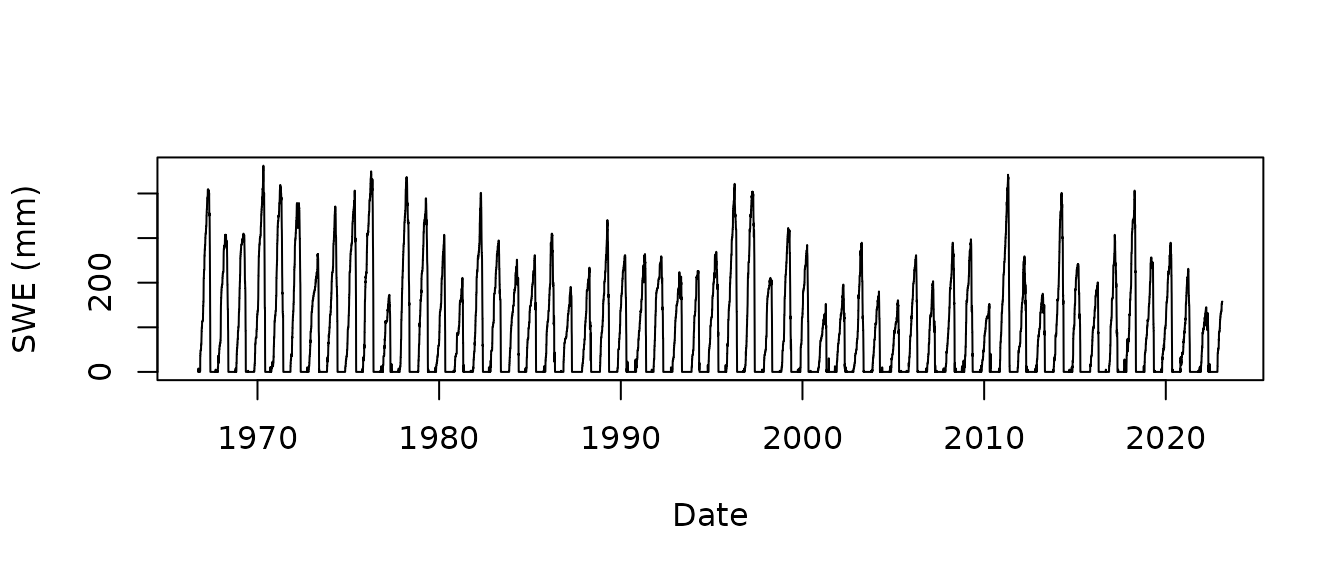
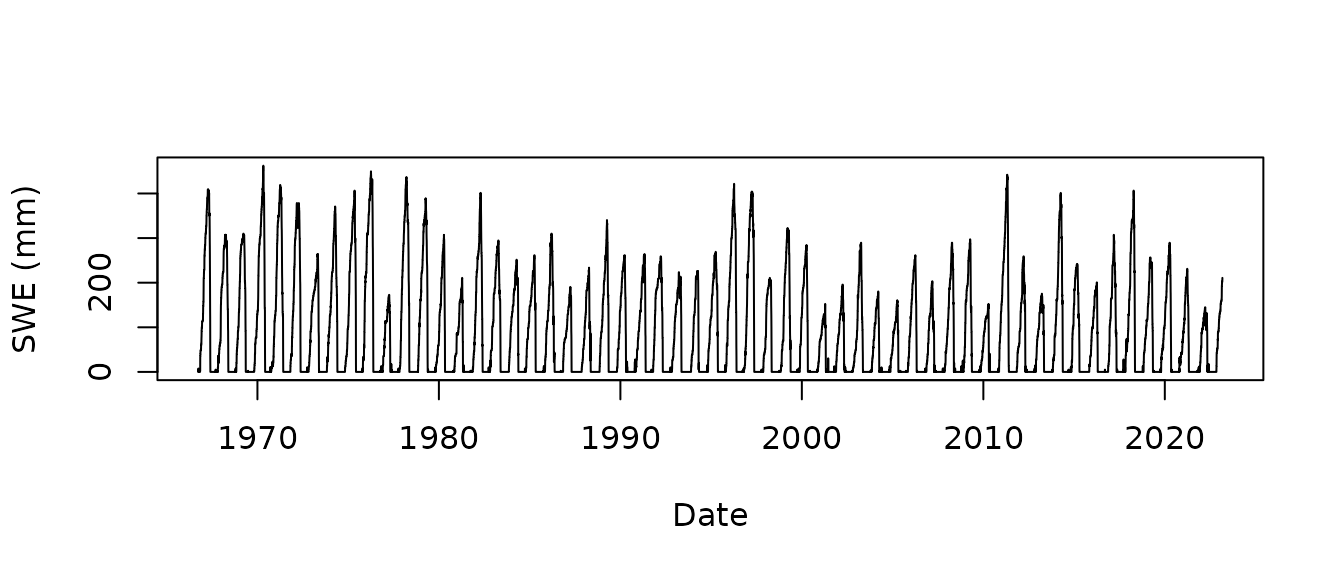
Deploying to gh-pages from @ bluegreen-labs/snotelr@6f2d0071e82f5777cfd45fc9575f18e6d11abc4a 🚀

diff --git a/articles/snotelr-vignette.html b/articles/snotelr-vignette.html
@@ -93,7 +93,7 @@
                         <h4 data-toc-skip class="author">Koen
 Hufkens</h4>
             
-            <h4 data-toc-skip class="date">2023-02-12</h4>
+            <h4 data-toc-skip class="date">2023-03-06</h4>
       
       <small class="dont-index">Source: <a href="https://github.com/bluegreen-labs/snotelr/blob/HEAD/vignettes/snotelr-vignette.Rmd" class="external-link"><code>vignettes/snotelr-vignette.Rmd</code></a></small>
       <div class="hidden name"><code>snotelr-vignette.Rmd</code></div>
@@ -137,12 +137,12 @@ missing the data is returned as an <code>R</code> variable.</p>
 <span><span class="co">#&gt; 5    SNTL    OR    fifteenmile </span></span>
 <span><span class="co">#&gt; 6    SNTL    UT        atwater </span></span>
 <span><span class="co">#&gt;                                          description      start        end</span></span>
-<span><span class="co">#&gt; 1            Lower Little Smoky Creek (170501130204) 2021-10-01 2023-02-12</span></span>
-<span><span class="co">#&gt; 2                          Rock Creek (170102131301) 2022-08-01 2023-02-12</span></span>
+<span><span class="co">#&gt; 1            Lower Little Smoky Creek (170501130204) 2021-10-01 2023-03-06</span></span>
+<span><span class="co">#&gt; 2                          Rock Creek (170102131301) 2022-08-01 2023-03-06</span></span>
 <span><span class="co">#&gt; 3               West Fork Swift Creek (170102100501) 2022-09-01 2022-09-01</span></span>
-<span><span class="co">#&gt; 4         Thomas Creek-Lamoille Creek (160401010607) 2022-08-01 2023-02-12</span></span>
-<span><span class="co">#&gt; 5                           Dog River (170701050503) 2022-09-01 2023-02-12</span></span>
-<span><span class="co">#&gt; 6 Headwaters Little Cottonwood Canyon (160202040202) 2022-08-01 2023-02-12</span></span>
+<span><span class="co">#&gt; 4         Thomas Creek-Lamoille Creek (160401010607) 2022-08-01 2023-03-06</span></span>
+<span><span class="co">#&gt; 5                           Dog River (170701050503) 2022-09-01 2023-03-06</span></span>
+<span><span class="co">#&gt; 6 Headwaters Little Cottonwood Canyon (160202040202) 2022-08-01 2023-03-06</span></span>
 <span><span class="co">#&gt;   latitude longitude elev     county site_id</span></span>
 <span><span class="co">#&gt; 1    43.52   -114.80 2073      Camas    1306</span></span>
 <span><span class="co">#&gt; 2    48.06   -115.70 1768    Sanders    1312</span></span>
@@ -174,12 +174,12 @@ imperial values, are converted to metric measurements.</p>
 <span><span class="co">#&gt; 5    SNTL    MT northeast entrance  Cold Creek (100700010602) 1937-10-01</span></span>
 <span><span class="co">#&gt; 6    SNTL    MT northeast entrance  Cold Creek (100700010602) 1937-10-01</span></span>
 <span><span class="co">#&gt;          end latitude longitude elev                    county site_id</span></span>
-<span><span class="co">#&gt; 1 2023-02-12    45.01   -110.01 2240 Yellowstone National Park     670</span></span>
-<span><span class="co">#&gt; 2 2023-02-12    45.01   -110.01 2240 Yellowstone National Park     670</span></span>
-<span><span class="co">#&gt; 3 2023-02-12    45.01   -110.01 2240 Yellowstone National Park     670</span></span>
-<span><span class="co">#&gt; 4 2023-02-12    45.01   -110.01 2240 Yellowstone National Park     670</span></span>
-<span><span class="co">#&gt; 5 2023-02-12    45.01   -110.01 2240 Yellowstone National Park     670</span></span>
-<span><span class="co">#&gt; 6 2023-02-12    45.01   -110.01 2240 Yellowstone National Park     670</span></span>
+<span><span class="co">#&gt; 1 2023-03-06    45.01   -110.01 2240 Yellowstone National Park     670</span></span>
+<span><span class="co">#&gt; 2 2023-03-06    45.01   -110.01 2240 Yellowstone National Park     670</span></span>
+<span><span class="co">#&gt; 3 2023-03-06    45.01   -110.01 2240 Yellowstone National Park     670</span></span>
+<span><span class="co">#&gt; 4 2023-03-06    45.01   -110.01 2240 Yellowstone National Park     670</span></span>
+<span><span class="co">#&gt; 5 2023-03-06    45.01   -110.01 2240 Yellowstone National Park     670</span></span>
+<span><span class="co">#&gt; 6 2023-03-06    45.01   -110.01 2240 Yellowstone National Park     670</span></span>
 <span><span class="co">#&gt;         date snow_water_equivalent precipitation_cumulative temperature_max</span></span>
 <span><span class="co">#&gt; 1 1966-10-01                   0.0                       NA              NA</span></span>
 <span><span class="co">#&gt; 2 1966-10-02                   7.6                       NA              NA</span></span>
